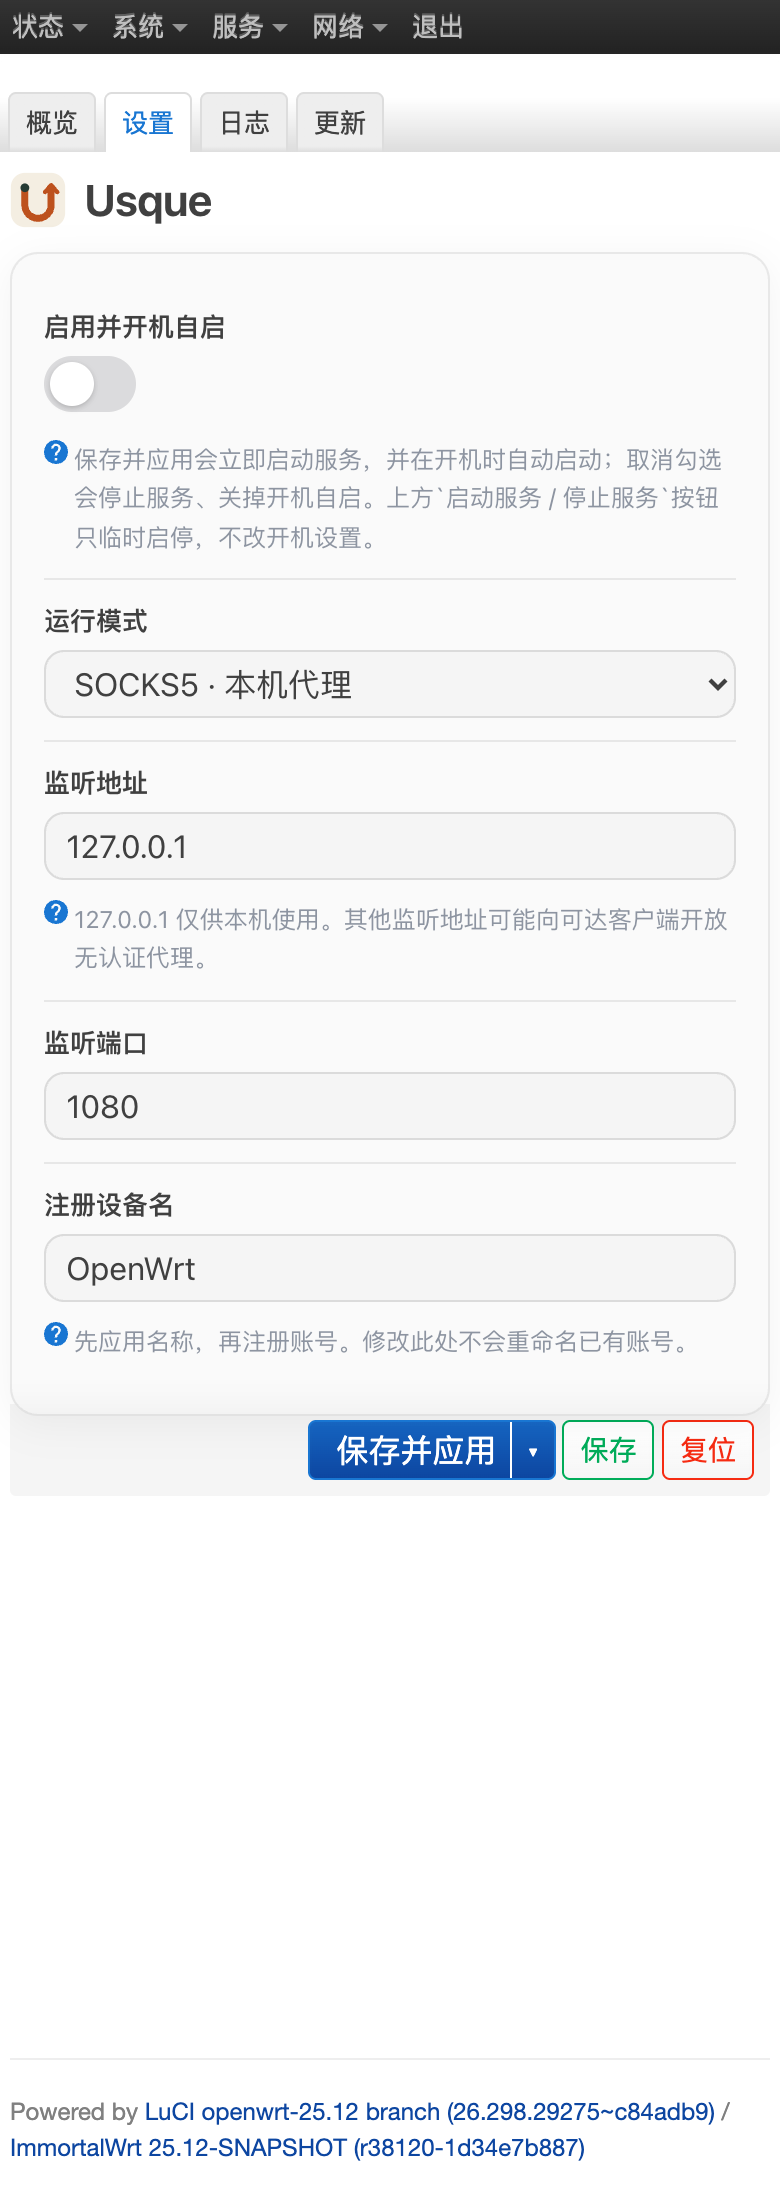
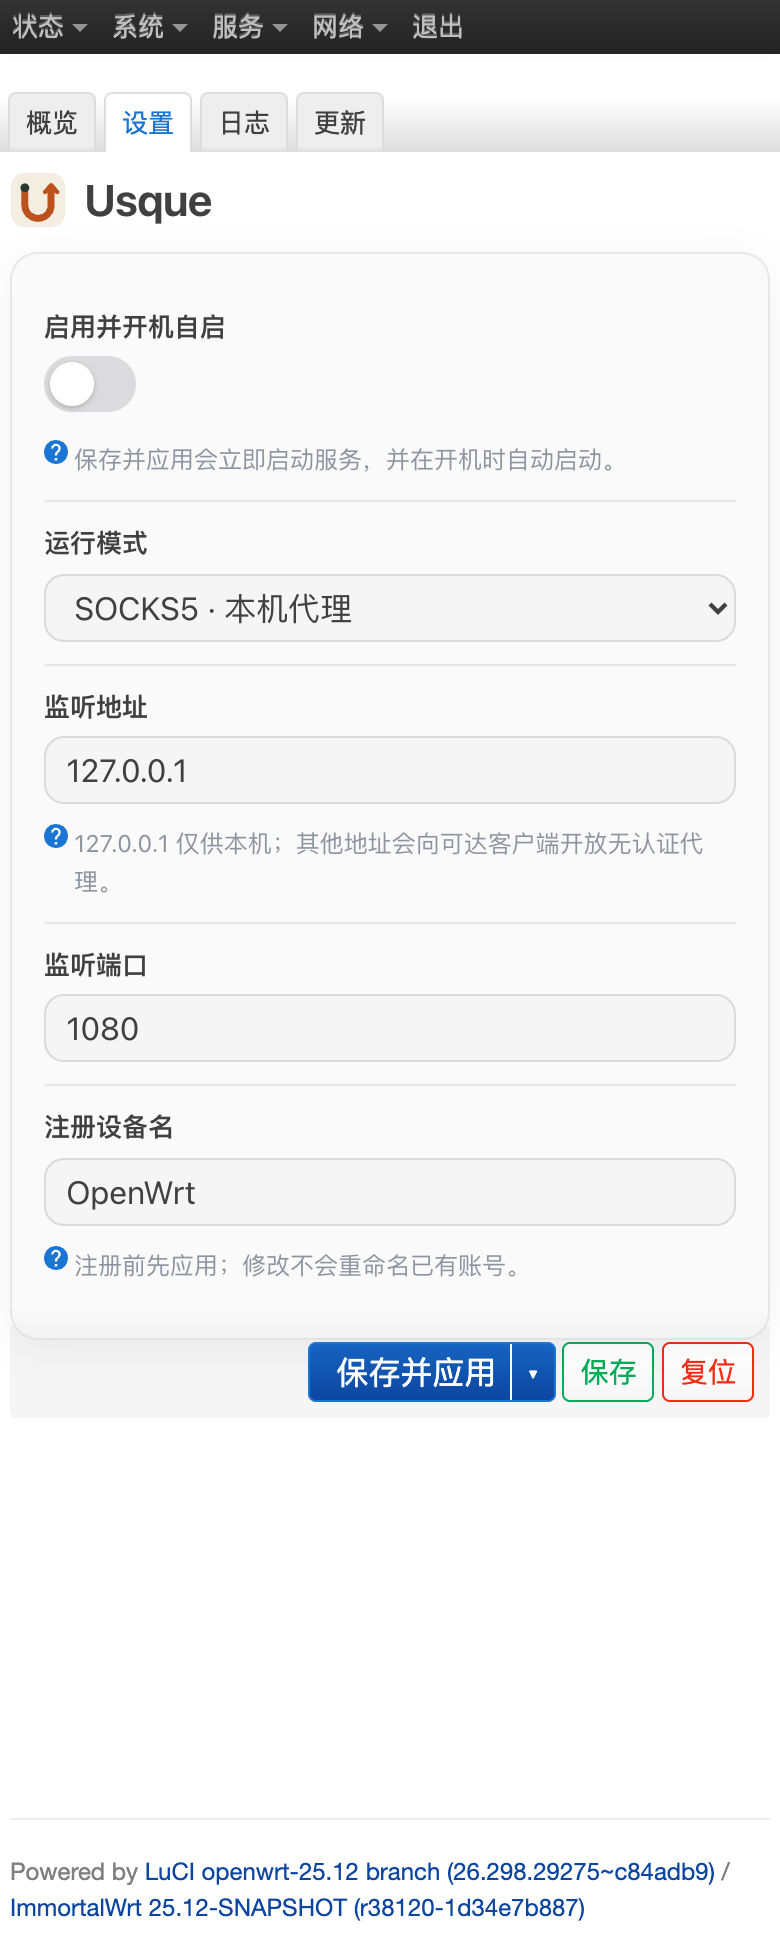
Trim option descriptions
改动：启用项说明缩成一句，监听地址、局域网接管、DNS、设备名四处说明同步精简。

原因：说明过长，页面读起来累。

diff --git a/luci-app-usque/htdocs/luci-static/resources/view/usque/settings.js b/luci-app-usque/htdocs/luci-static/resources/view/usque/settings.js
@@ -22,9 +22,7 @@ return view.extend({
 
 		var o = s.option(form.Flag, 'enabled', _('Enable and start at boot'));
 		o.rmempty = false;
-		o.description = _(
-			'Applying starts the service now and keeps it on after a reboot. Clearing it stops the service and turns the boot entry off. The start and stop buttons on the overview page only switch the service without touching the boot setting.'
-		);
+		o.description = _('Applying starts the service now and keeps it on after a reboot.');
 		o = s.option(form.ListValue, 'mode', _('Operating mode'));
 		o.value('socks', _('SOCKS5 · local proxy'));
 		o.value('tun', _('TUN · network interface'));
@@ -34,9 +32,7 @@ return view.extend({
 		o.depends('mode', 'socks');
 		o.datatype = 'ipaddr';
 		o.rmempty = false;
-		o.description = _(
-			'127.0.0.1 keeps the proxy on this router. Other addresses may expose an unauthenticated proxy to reachable clients.'
-		);
+		o.description = _('127.0.0.1 stays on this router. Other addresses expose an unauthenticated proxy.');
 		o = s.option(form.Value, 'port', _('Listen port'));
 		o.retain = true;
 		o.depends('mode', 'socks');
@@ -51,9 +47,7 @@ return view.extend({
 		o.retain = true;
 		o.depends('mode', 'tun');
 		o.rmempty = false;
-		o.description = _(
-			'Only forwarded IPv4 from the selected LAN device is routed through TUN. IPv6 and router DNS are unchanged.'
-		);
+		o.description = _('Only forwarded IPv4 from this device goes through TUN. IPv6 stays as is.');
 		o = s.option(form.Value, 'lan_device', _('LAN device'));
 		o.retain = true;
 		o.depends({ mode: 'tun', route_lan: '1' });
@@ -64,12 +58,10 @@ return view.extend({
 		o.retain = true;
 		o.depends({ mode: 'tun', route_lan: '1' });
 		o.rmempty = false;
-		o.description = _(
-			'Sends this LAN device to a resolver inside the tunnel instead of the local one. Other clients and the router keep their current DNS.'
-		);
+		o.description = _('Only this device uses the resolver inside the tunnel.');
 		o = s.option(form.Value, 'device_name', _('Registration device name'));
 		o.rmempty = false;
-		o.description = _('Apply this name before registering. Changing it does not rename an existing account.');
+		o.description = _('Apply before registering. Changing it does not rename an existing account.');
 		o.validate = function (section, value) {
 			return /^[A-Za-z0-9._-]{1,32}$/.test(value || '')
 				? true
